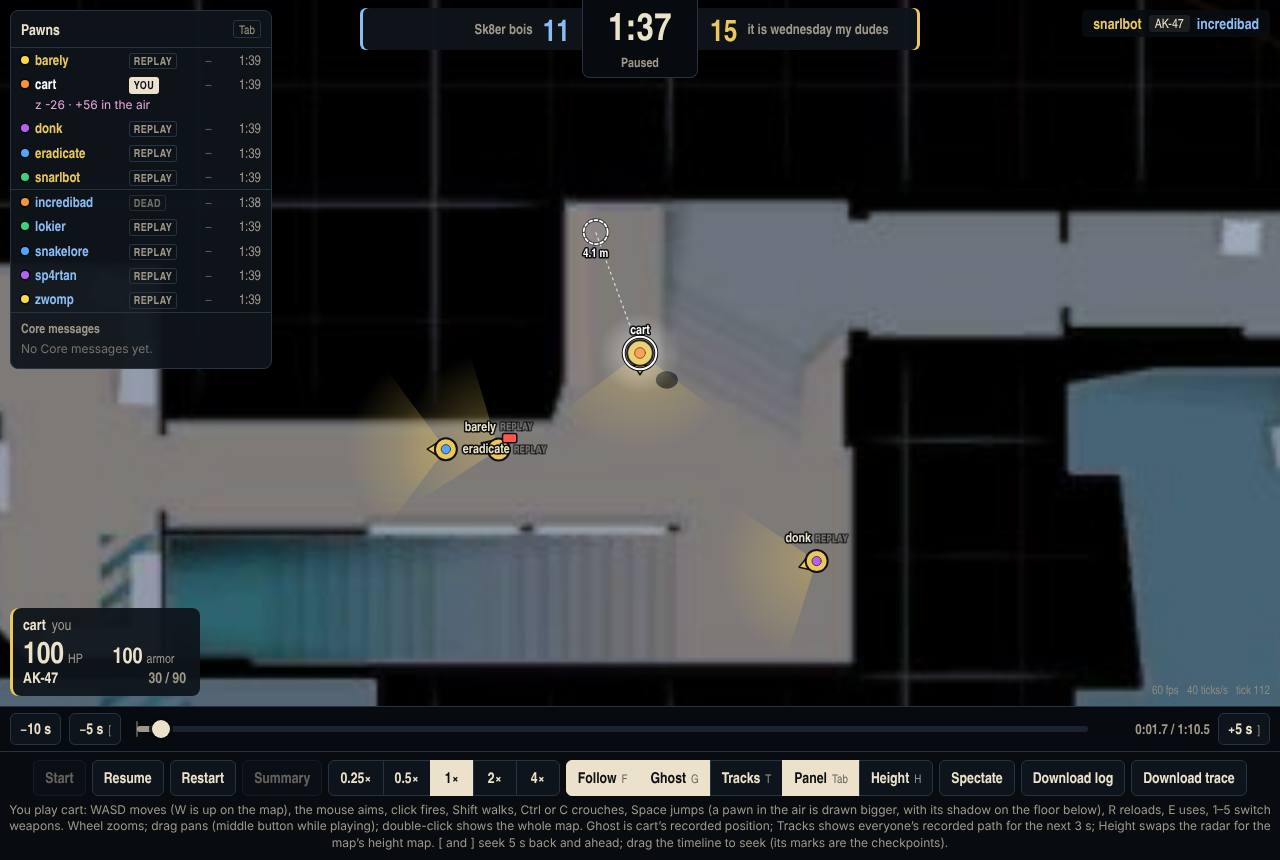
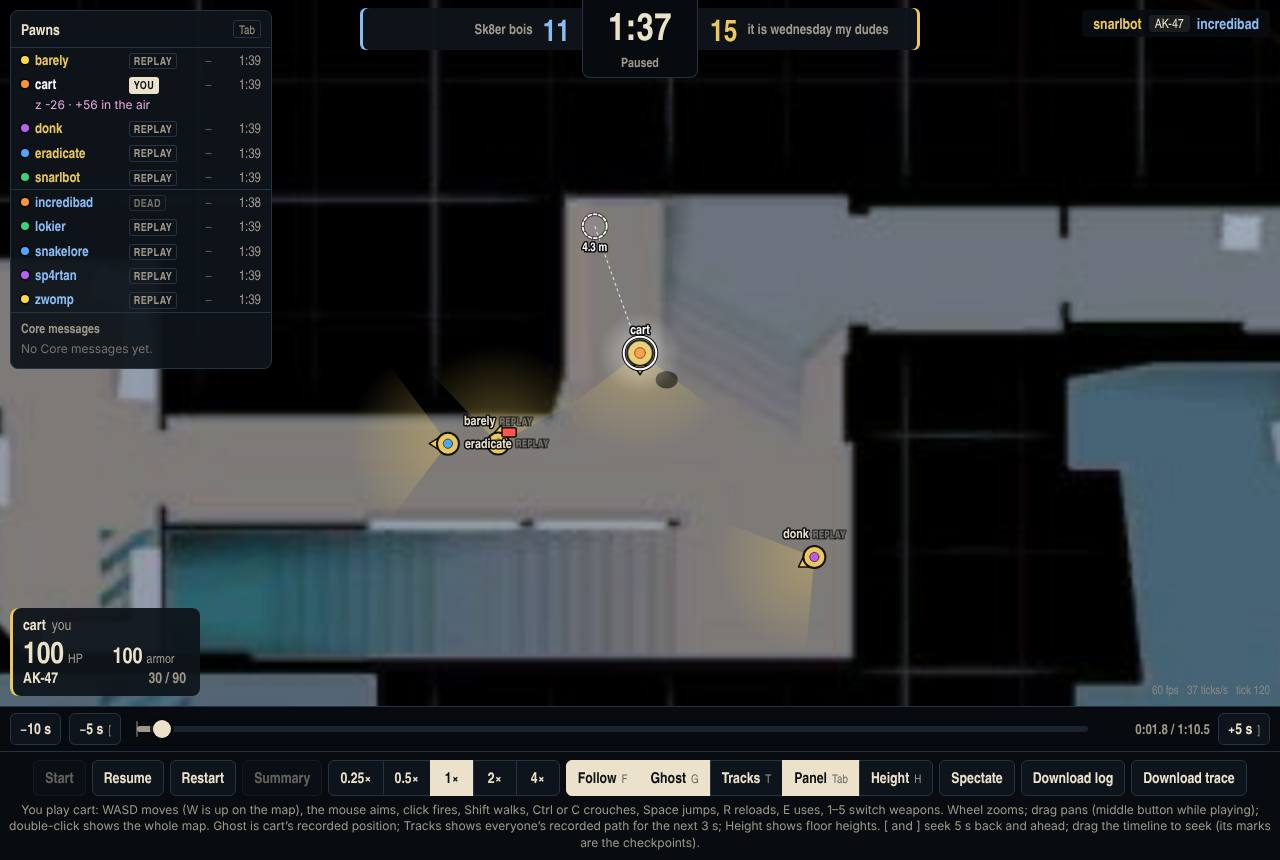
G3: app screenshots (jump, height map)
Claude-Session: https://claude.ai/code/session_01VsL73uwF2Rjn3UxUMA33dN

diff --git a/docs/app.md b/docs/app.md
@@ -226,6 +226,8 @@ The status panel adds `z −48` and `+56 in the air` (or `crouched`) for LIVE pa
 
 ![cart near the top of a jump: bigger and lighter, his shadow on the floor, +56 in the air in the panel](img/app-jump.jpg)
 
+![The same spot with the Height layer: CS2 floor heights instead of the radar](img/app-height-map.jpg)
+
 ![Follow camera zoomed in on cart: his smoke, a tracer stopping at a wall, the ghost 4.7 m away](img/app-follow-zoomed.jpg)
 
 **Look.** Dark and quiet so the round reads at a glance: the replay page's "Mirage after dusk" palette
